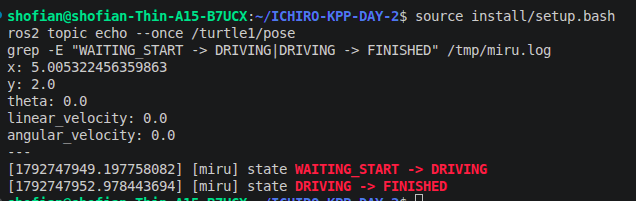
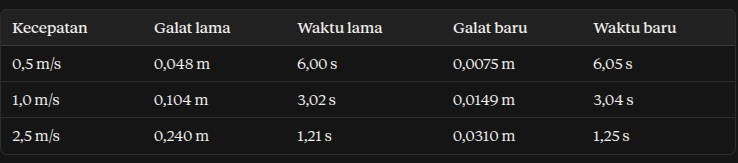
fix  screenshots Task G

diff --git a/src/rally_miru/rally_miru/node/miru_node.py b/src/rally_miru/rally_miru/node/miru_node.py
@@ -4,7 +4,6 @@ from geometry_msgs.msg import Twist
 from rally_interfaces.msg import DriverStatus, Instruction, RaceState
 from rally_miru.instruction_queue import Instruction as QueuedInstruction
 from rally_miru.instruction_queue import InstructionQueue
-#G3
 from rally_miru.motion import (
     approach_speed, remaining_distance, snap_heading, snap_to_cell_center, target_point, turn_rate, turn_target,
     wrap_angle)
@@ -79,8 +78,8 @@ class MiruNode:
         self.node.create_subscription(Pose, POSE_TOPIC, self.on_pose, 20)
 
         # TODO: TASK C - Daftarkan parameter SPEED_PARAM dengan on_parameter_change,
-        #C3 : deklarasi "SPEED_PARAM" dengan nilai awal = "1.0"
-        self.node.declare_parameter(SPEED_PARAM, 1.0)
+        #C3 : deklarasi "SPEED_PARAM"
+        self.node.declare_parameter(SPEED_PARAM, 2.5)
         #C4: verifikasi perubahan pada "SPEED_PARAM"
         self.node.add_on_set_parameters_callback(self.on_parameter_change)
         #C1 : buat subscription yang menerima pesan berjenis "Racestate" dari topic "RACE_STATE_TOPIC" dengan ukuran 20 dan callback "self.on_race_state"
@@ -89,7 +88,7 @@ class MiruNode:
         # TODO: TASK F - Buat publisher untuk STATUS_TOPIC dan timer yang memanggil
         # publish_status tiap STATUS_PERIOD.
         #F1 : membuat "status_publisher" mengirim pesan "DriverStatus" ke topic "STATUS_TOPIC"
-        self.status_publisher = self.node.create_publisher(DriverStatus, STATUS_TOPIC, 10)
+        self.status_publisher = self.node.create_publisher(DriverStatus, STATUS_TOPIC, 20)
         #mengirim laporan "self.publish_status" tiap 0.5 detik
         #F2
         #AI
@@ -186,7 +185,7 @@ class MiruNode:
     def turn_step(self):
         # Hitung selisih self.target_heading dan self.pose.theta, lalu minta kecepatan putarnya ke turn_rate.
         # Jika sudah pas, hentikan kura-kura dan return True. Jika belum, putar dan return
-        #E3
+        #E3 
         error = wrap_angle(self.target_heading - self.pose.theta)
         #AI
         rate = turn_rate(error)

diff --git a/src/rally_miru/rally_miru/motion.py b/src/rally_miru/rally_miru/motion.py
@@ -10,7 +10,7 @@ MAX_TURN_RATE = 1.5  # [rad/s]
 MIN_TURN_RATE = 0.3  # [rad/s]
 TURN_GAIN = 4.0  # [1/s]
 #G1
-APPROACH_GAIN = 3.0
+APPROACH_GAIN = 8.0
 APPROACH_MIN_SPEED = 0.05
 
 # Provided, do not modify
@@ -56,7 +56,6 @@ def turn_target(heading, turn):
     # Hitung arah setelah belok 90 derajat dari `heading` (kiri menambah sudut, kanan mengurangi),
     # lalu rapikan dengan wrap_angle.
     #E2 : 
-    # new_heading = heading
     #AI
     if turn == Instruction.TURN_LEFT:
         #belok kiri = berlawanan arah jarum jam = sudut nambah
@@ -64,6 +63,8 @@ def turn_target(heading, turn):
     elif turn == Instruction.TURN_RIGHT:
         #belok kanan = searah jarum jam = sudut berkurang
         new_heading = heading - math.pi / 2
+    else:
+        new_heading = heading
     return wrap_angle(new_heading)
 
 # Provided, do not modify
